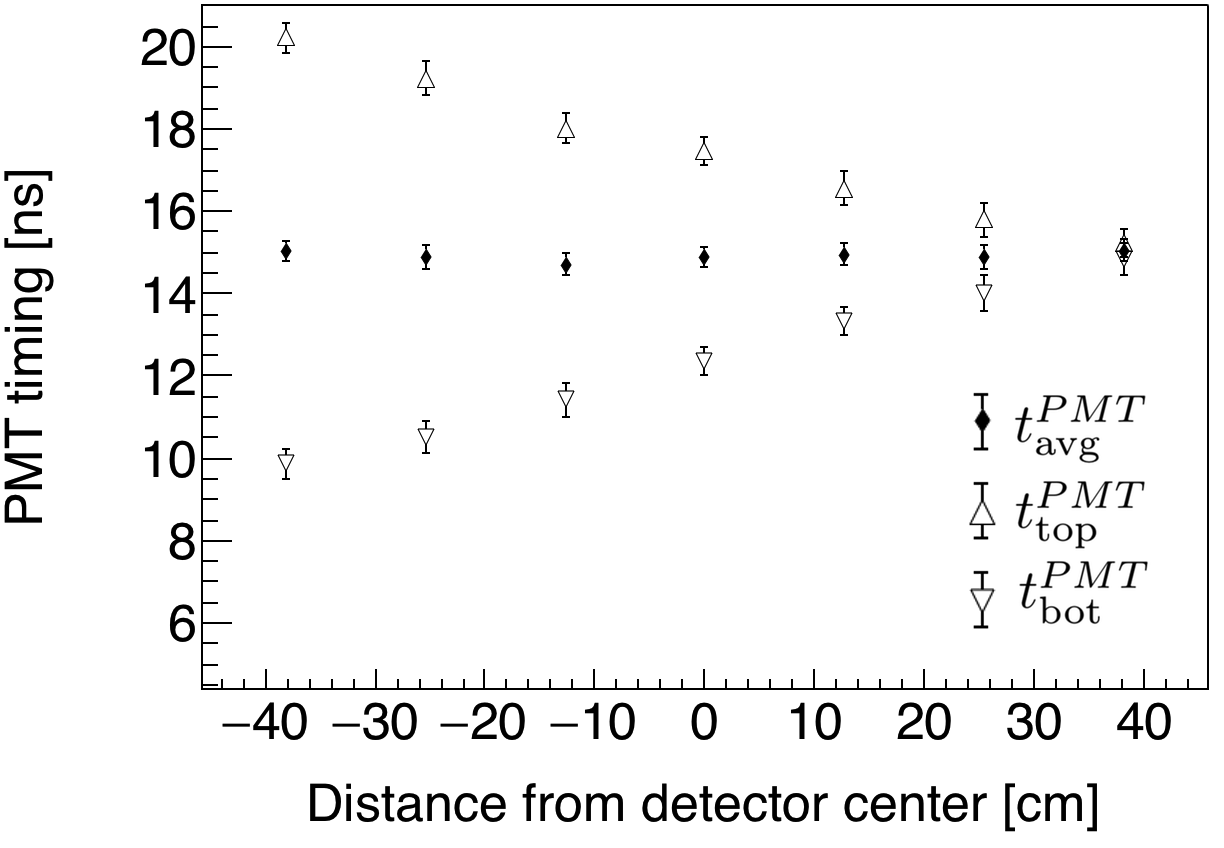
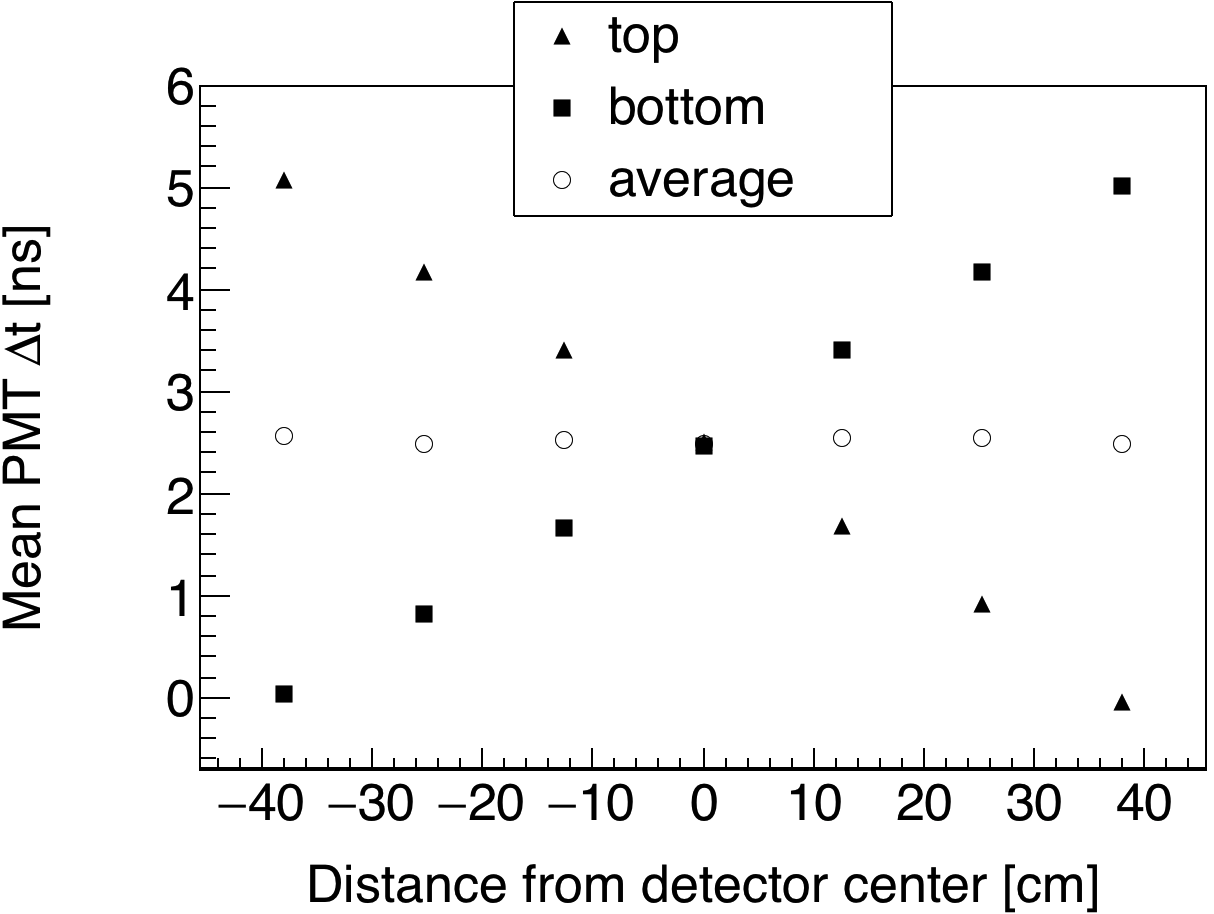
m

diff --git a/plots/Official/ContTof.py b/plots/Official/ContTof.py
@@ -14,7 +14,7 @@ import mytools2 as mt2
 # hist.Draw()
 # TB = ROOT.TBrowser()
 
-
+np.random.seed(1)
 dx = (2.54*15)/3
 
 ps =  [-3*dx, -2*dx,-dx,0,dx,2*dx, 3*dx]
@@ -38,7 +38,8 @@ for p in ps:
     mean_times =[]
     tops = []
     bots = []
-    for delta in range(70):
+    n=1000
+    for delta in range(n):
         t1 = d1/(1.52E10)*1E9 + np.random.randn()*1.5
         t2 = d2/(1.52E10)*1E9 + np.random.randn()*1.5
 
@@ -53,9 +54,9 @@ for p in ps:
     y_top.append(np.mean(tops))
     y_bot.append(np.mean(bots))
 
-    erry_mean.append(np.std(mean_times)/4.)
-    erry_top.append(np.std(tops)/4.)
-    erry_bot.append(np.std(bots)/4.)
+    erry_mean.append(np.std(mean_times)/np.sqrt(n))
+    erry_top.append(np.std(tops)/np.sqrt(n))
+    erry_bot.append(np.std(bots)/np.sqrt(n))
 
 x_mean = np.array(x_mean, dtype=np.float64)
 y_mean = np.array(y_mean, dtype=np.float64)
@@ -66,7 +67,7 @@ y_bot = np.array(y_bot, dtype=np.float64)
 erry_top = np.array(erry_top, dtype=np.float64)
 erry_bot = np.array(erry_bot, dtype=np.float64)
 
-ot = 10,15
+ot = 0,0
 
 y_mean += np.mean(ot)
 y_bot += ot[0]
@@ -77,27 +78,29 @@ gr_top = ROOT.TGraphErrors(len(x_mean), x_mean, y_top,np.ones_like(erry_mean)*0,
 gr_bot = ROOT.TGraphErrors(len(x_mean), x_mean, y_bot, np.ones_like(erry_mean)*0, erry_bot)
 
 gr.Draw('A*')
+gr.GetYaxis().SetRangeUser(-0.7,6)
+
 gr_bot.Draw('*same')
 gr_top.Draw('*same')
 
-gr.SetMinimum(0)
 # gr.SetRange(0)
 
 gr.GetXaxis().SetTitle('Distance from detector center [cm]')
-gr.GetYaxis().SetTitle('PMT timing [ns]')
-gr.SetMarkerStyle(33)
-gr_top.SetMarkerStyle(26)
-gr_bot.SetMarkerStyle(32)
+gr.GetYaxis().SetTitle('Mean PMT #Deltat [ns]')
+gr.SetMarkerStyle(24)
+gr_top.SetMarkerStyle(22)
+gr_bot.SetMarkerStyle(21)
 
 
 mt2.thesis_plot(gr, True)
 
-# leg = ROOT.TLegend()
-# leg.AddEntry(gr, ' ','ep')
-# leg.AddEntry(gr_top, ' ','ep')
-# leg.AddEntry(gr_bot, ' ','ep')
-# leg.SetTextSize(0.06)
-# leg.Draw()
+leg = ROOT.TLegend()
+leg.AddEntry(gr_top, 'top','p')
+leg.AddEntry(gr_bot, 'bottom','p')
+leg.AddEntry(gr, 'average','p')
+
+leg.SetTextSize(0.06)
+leg.Draw()
 # leg.SetBorderSize(0);
 
 if __name__ == "__main__":

diff --git a/plots/Official/PMT_diff.py b/plots/Official/PMT_diff.py
@@ -89,7 +89,7 @@ plt.grid()
 plt.xlabel('Reconstructed distance from detector center [cm]')
 plt.ylabel('Counts')
 
-plt.savefig('/Users/jeffreyburggraf/PycharmProjects/2nCorrPhysRev/PMTDifference_hist.png', transparent=True)
+plt.savefig('/Users/jeffreyburggraf/Pictures/PMTDifference_hist.png', transparent=True)
 
 plt.figure(figsize=(10,10))
 
@@ -115,7 +115,7 @@ plt.legend(loc='upper left', fontsize=25)
 plt.ylim(-40, 55)
 plt.subplots_adjust(left = 0.15)
 
-plt.savefig('/Users/jeffreyburggraf/PycharmProjects/2nCorrPhysRev/PMTDifference.png', transparent=True)
+plt.savefig('/Users/jeffreyburggraf/Pictures/PMTDifference.png', transparent=True)
 
 # plt.savefig('PMTDifference.png', transparent=True)
 plt.show()

diff --git a/plots/Official/PMTMean.py b/plots/Official/PMTMean.py
@@ -15,7 +15,7 @@ target = "DU"
 hist = TH1F(9-10,9+15,binwidths=0.5)
 
 for i in np.random.poisson(1, 10000*5):
-    hist.Fill(2*i + np.random.randn(1) + 13)
+    hist.Fill(2*i + np.random.randn(1) )
 
 
 hist.GetXaxis().SetTitle("PMT timing average [ns]")
@@ -26,6 +26,7 @@ hist.SetTitle('')
 hist.SetLineWidth(2)
 ROOT.TGaxis.SetMaxDigits(3)
 
+print(hist)
 mt2.thesis_plot(hist, True)
 
 if __name__ == "__main__":
